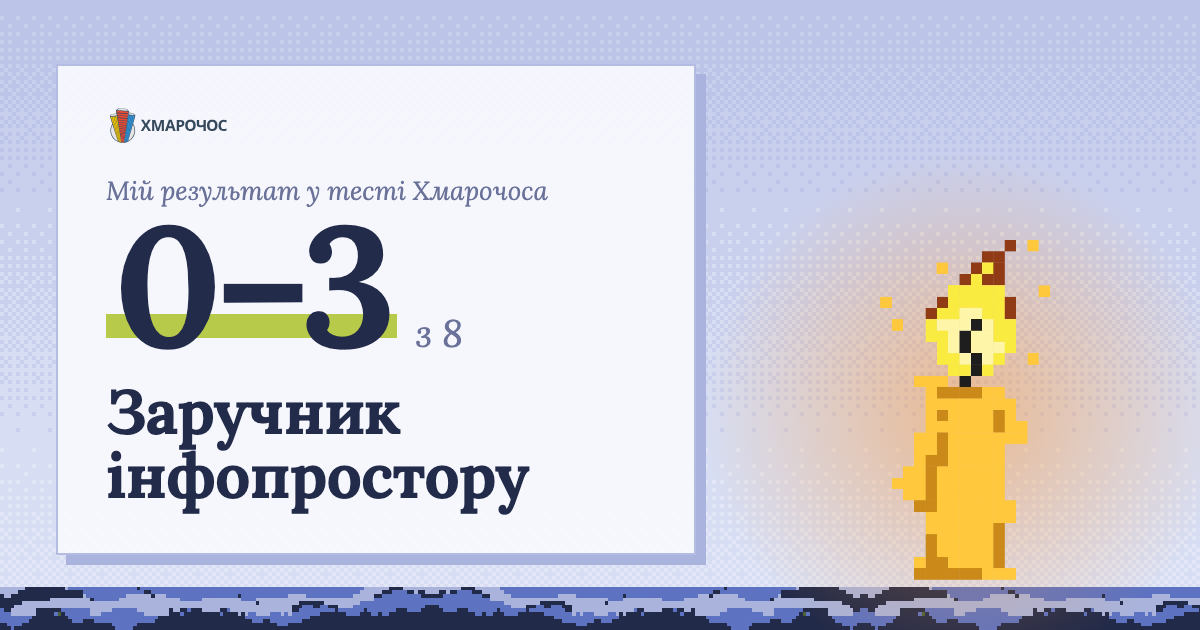
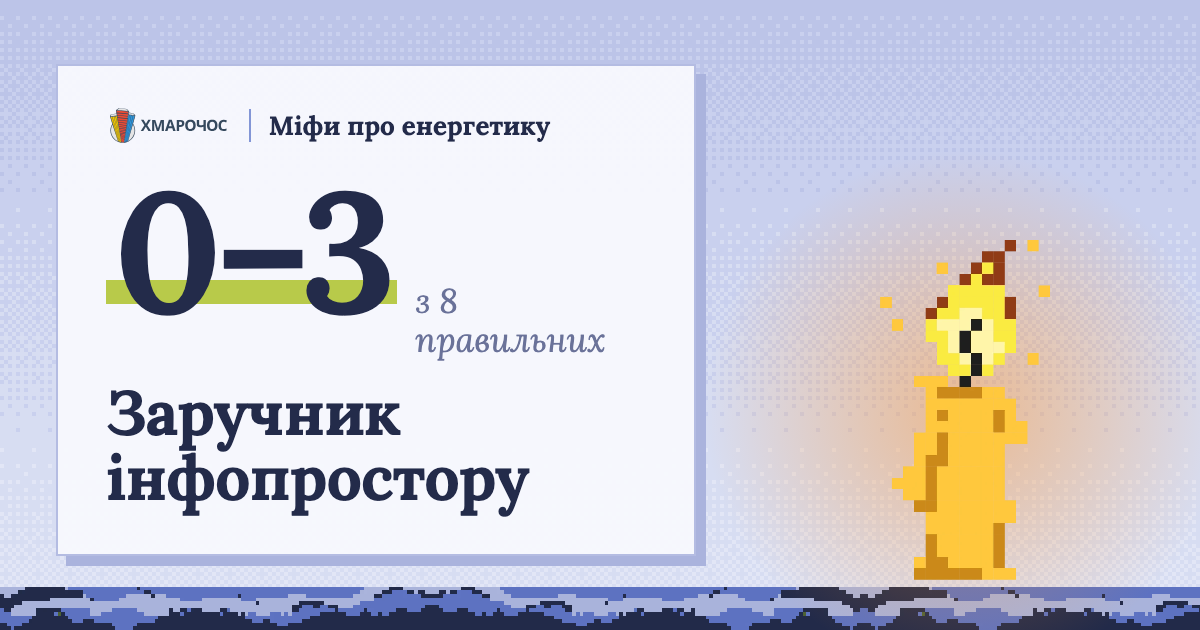
OG результату: замість «Мій результат у тесті Хмарочоса» — шапка «Хмарочос | Міфи про енергетику», біля балів «з 8 правильних»; OG_VERSION 10

diff --git a/og-src/og.html b/og-src/og.html
@@ -35,10 +35,13 @@ body.night .ground { background-image: url("../public/art/px/hills-night.png"); 
 body.level .start { display: none; }
 body.level .lvl { display: block; }
 .lvl .card { left: 56px; top: 64px; width: 640px; padding: 36px 48px 44px; }
-.lvl .who { margin: 26px 0 0; font: italic 400 26px/1.3 "Lora", serif; color: var(--mute); }
+/* шапка плашки — як на сайті: лого й назва тесту через тонку риску */
+.brand { display: flex; align-items: center; gap: 18px; }
+.brand span { padding-left: 18px; border-left: 2px solid var(--line-2); font: 700 26px "Lora", serif; }
+.lvl .score { margin-top: 30px; }
 .score { display: flex; align-items: baseline; gap: 18px; margin-top: 4px; }
 .score b { font: 700 170px/.86 "Lora", serif; letter-spacing: -.04em; padding: 0 8px; background: linear-gradient(transparent 70%, var(--grass) 70% 86%, transparent 86%); }
-.score span { font: italic 400 38px "Lora", serif; color: var(--mute); }
+.score span { font: italic 400 34px/1.15 "Lora", serif; color: var(--mute); }
 .lvl h1 { margin: 22px 0 0; font: 700 62px/1.04 "Lora", serif; letter-spacing: -.01em; }
 .art { position: absolute; display: grid; place-items: center; }
 .art img { position: relative; display: block; }
@@ -66,9 +69,8 @@ body.level .lvl { display: block; }
     <div class="ground"></div>
     <div class="art" id="art"><img id="artImg" alt=""></div>
     <div class="card">
-      <img class="logo" src="../public/hmarochos_logo_new.svg" alt="">
-      <p class="who">Мій результат у тесті Хмарочоса</p>
-      <div class="score"><b id="score"></b><span>з 8</span></div>
+      <div class="brand"><img class="logo" src="../public/hmarochos_logo_new.svg" alt=""><span>Міфи про енергетику</span></div>
+      <div class="score"><b id="score"></b><span>з 8<br>правильних</span></div>
       <h1 id="title"></h1>
     </div>
   </div>

diff --git a/app/share.ts b/app/share.ts
@@ -19,4 +19,4 @@ export function scoreShareUrl(score: number): string {
 }
 
 /** Версія OG-картинок: міняємо, коли картинки перемальовано, щоб соцмережі взяли нові. */
-export const OG_VERSION = "9";
+export const OG_VERSION = "10";
